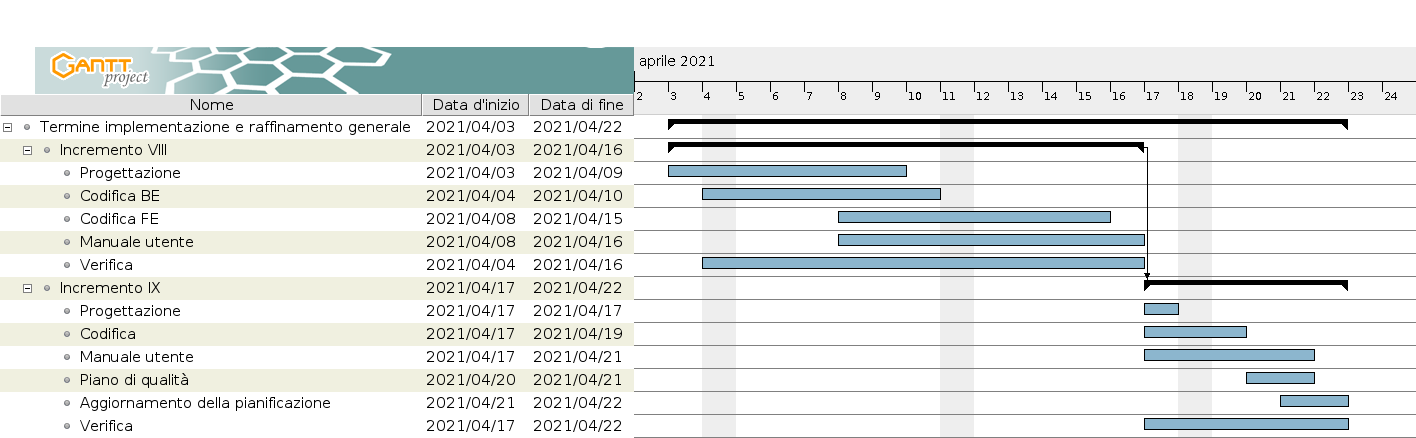
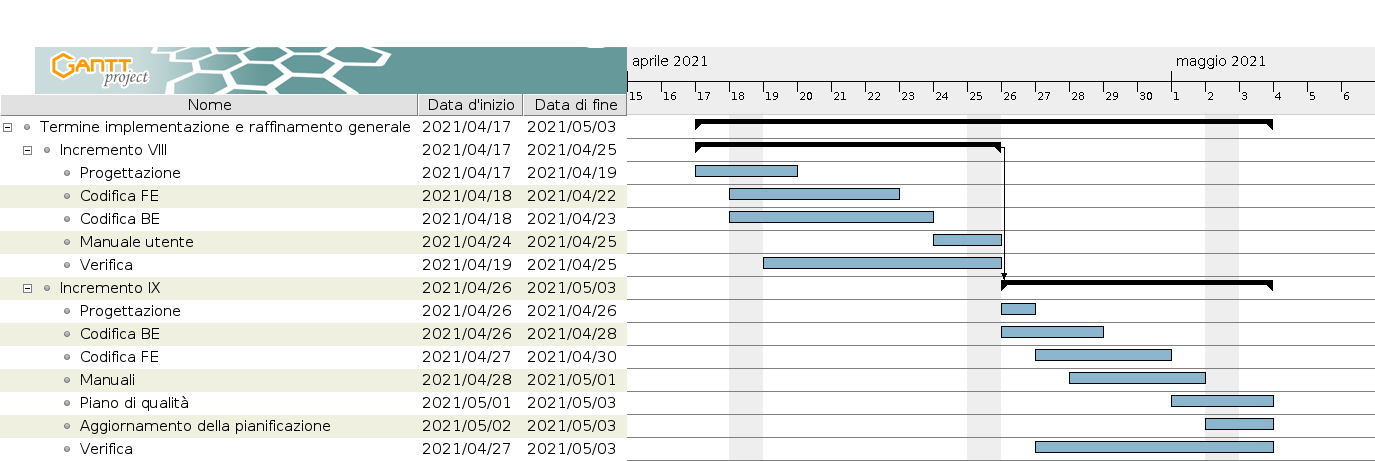
Primo aggiornamento della pianificazione

diff --git a/Esterni/PianoDiProgetto/res/sections/pianificazione/pianificazione.tex b/Esterni/PianoDiProgetto/res/sections/pianificazione/pianificazione.tex
@@ -356,7 +356,7 @@ Durante questa fase saranno presenti i seguenti ruoli:
 \subsection{Progettazione completa e implementazione} \label{_pianificazioneProgettazioneCompletaImplementazione}
 \begin{itemize}
     \item []\textbf{Inizio:} 2021-03-02
-    \item []\textbf{Fine:} 2021-04-02
+    \item []\textbf{Fine:} 2021-04-16
     \item []\textbf{Descrizione:} effettuare una implementazione del prodotto che soddisfi tutte le principali funzionalità richieste.
 \end{itemize}
 
@@ -412,7 +412,7 @@ Durante questa fase saranno presenti i seguenti ruoli:
 \paragraph[Incremento V]{Incremento V}
 \begin{itemize}
     \item [] \textbf{Inizio:} 2021-03-11
-    \item [] \textbf{Fine:} 2021-03-15
+    \item [] \textbf{Fine:} 2021-03-20
     \item [] \textbf{Descrizione:} implementazione PLP e PDP.
     \item [] \textbf{Attività}
           \begin{itemize}
@@ -428,7 +428,17 @@ Durante questa fase saranno presenti i seguenti ruoli:
                         \item implementazione PLP;
                         \item implementazione PDP.
                     \end{itemize}
-              \item \textbf{Manuale utente:} inizio stesura;
+              \item \textbf{Manuale manutentore:}
+                    \begin{itemize}
+                        \item definizione della struttura del manuale;
+                        \item aggiunta delle architetture valutate.
+                    \end{itemize}
+              \item \textbf{Manuale utente:}
+                    \begin{itemize}
+                        \item definizione della struttura del manuale;
+                        \item redazione delle parti riferite alle pagine già implementate.
+                    \end{itemize}
+              \item \textbf{Pianificazione:} eventuale aggiornamento valutando l'avanzamento del progetto.
               \item \textbf{Verifica:} controllo della qualità dei prodotti sviluppati in questo periodo.
           \end{itemize}
 \end{itemize}
@@ -442,8 +452,8 @@ Durante questa fase saranno presenti i seguenti ruoli:
 
 \paragraph[Incremento VI]{Incremento VI}
 \begin{itemize}
-    \item [] \textbf{Inizio:} 2021-03-16
-    \item [] \textbf{Fine:} 2021-03-21
+    \item [] \textbf{Inizio:} 2021-03-21
+    \item [] \textbf{Fine:} 2021-03-31
     \item [] \textbf{Descrizione:} implementazione gestione ordini lato cliente ed inizio implementazioni API lato venditore.
     \item [] \textbf{Attività}
           \begin{itemize}
@@ -454,7 +464,7 @@ Durante questa fase saranno presenti i seguenti ruoli:
                     \end{itemize}
               \item \textbf{Codifica BE:}
                     \begin{itemize}
-                        \item implementazione API per gestire il profilo utente;
+                        \item implementazione API per visualizzare clienti lato venditore;
                         \item implementazione API gestione prodotti lato venditore;
                     \end{itemize}
               \item \textbf{Codifica FE:}
@@ -462,6 +472,7 @@ Durante questa fase saranno presenti i seguenti ruoli:
                         \item implementazione pagina lista ordini;
                         \item implementazione pagina dettaglio ordine;
                     \end{itemize}
+              \item \textbf{Manuale manutentore:} aggiornamento;
               \item \textbf{Verifica:} controllo della qualità dei prodotti sviluppati in questo periodo.
           \end{itemize}
 \end{itemize}
@@ -475,15 +486,16 @@ Durante questa fase saranno presenti i seguenti ruoli:
 
 \paragraph[Incremento VII]{Incremento VII}
 \begin{itemize}
-    \item [] \textbf{Inizio:} 2021-03-22
-    \item [] \textbf{Fine:} 2021-04-02
+    \item [] \textbf{Inizio:} 2021-04-01
+    \item [] \textbf{Fine:} 2021-04-16
     \item [] \textbf{Descrizione:} fine implementazione FE lato cliente ed implementazione gestione prodotti lato venditore.
     \item [] \textbf{Attività}
           \begin{itemize}
               \item \textbf{Progettazione:} progettazione pagine gestione prodotti lato venditore;
+              \item \textbf{Presentazione PB:} preparazione della presentazione per la product baseline;
               \item \textbf{Codifica BE:}
                     \begin{itemize}
-                        \item implementazione API per gestire categorie e clienti lato venditore;
+                        \item implementazione API per gestire categorie;
                     \end{itemize}
               \item \textbf{Codifica FE:}
                     \begin{itemize}
@@ -491,7 +503,7 @@ Durante questa fase saranno presenti i seguenti ruoli:
                         \item implementazione gestione prodotti lato venditore;
                     \end{itemize}
               \item \textbf{Manuale utente:} aggiornamento;
-              \item \textbf{Preparazione presentazione:} preparazione della presentazione per la revisione di qualifica;
+              \item \textbf{Presentazione RQ:} preparazione della presentazione per la revisione di qualifica;
               \item \textbf{Stesura lettera di presentazione;}
               \item \textbf{Aggiornamento della pianificazione;}
               \item \textbf{Verifica:} controllo della qualità dei prodotti sviluppati in questo periodo.
@@ -518,8 +530,8 @@ Durante questa fase saranno presenti i seguenti ruoli:
 
 \subsection{Termine implementazione e raffinamento generale} \label{_pianificazioneTermineImplementazione}
 \begin{itemize}
-    \item [] \textbf{Inizio:} 2021-04-03
-    \item [] \textbf{Fine:} 2021-04-22
+    \item [] \textbf{Inizio:} 2021-04-17
+    \item [] \textbf{Fine:} 2021-05-03
     \item [] \textbf{Descrizione:} completare l'implementazione del prodotto con le funzionalità mancanti raffinando ciò che è stato svolto precedentemente.
 \end{itemize}
 
@@ -537,12 +549,13 @@ Durante questa fase saranno presenti i seguenti ruoli:
 
 \paragraph[Incremento VIII]{Incremento VIII}
 \begin{itemize}
-    \item [] \textbf{Inizio:} 2021-04-03
-    \item [] \textbf{Fine:} 2021-04-16
+    \item [] \textbf{Inizio:} 2021-04-17
+    \item [] \textbf{Fine:} 2021-04-25
     \item [] \textbf{Descrizione:} implementazione gestione ordini lato venditore.
     \item [] \textbf{Attività}
           \begin{itemize}
-              \item \textbf{Progettazione:} progettazione pagine gestione ordini lato venditore
+              \item \textbf{Progettazione:} progettazione pagine gestione ordini lato venditore;
+              \item \textbf{Codifica:} refactoring di parte del codice secondo quanto appreso in sede di PB;
               \item \textbf{Codifica BE:}
                     \begin{itemize}
                         \item implementazione API per gestire gli ordini lato venditore;
@@ -551,7 +564,7 @@ Durante questa fase saranno presenti i seguenti ruoli:
                     \begin{itemize}
                         \item implementazione gestione ordini lato venditore;
                     \end{itemize}
-              \item \textbf{Manuale utente:} aggiornamento;
+              \item \textbf{Manuali:} miglioramento secondo le eventuali indicazioni ricevute;
               \item \textbf{Verifica:} controllo della qualità dei prodotti sviluppati in questo periodo.
           \end{itemize}
 \end{itemize}
@@ -565,16 +578,23 @@ Durante questa fase saranno presenti i seguenti ruoli:
 
 \paragraph[Incremento IX]{Incremento IX}
 \begin{itemize}
-    \item [] \textbf{Inizio:} 2021-04-17
-    \item [] \textbf{Fine:} 2021-04-22
+    \item [] \textbf{Inizio:} 2021-04-26
+    \item [] \textbf{Fine:} 2021-04-03
     \item [] \textbf{Descrizione:} fine implementazione funzionalità mancanti lato venditore.
     \item [] \textbf{Attività}
           \begin{itemize}
               \item \textbf{Aggiornamento della pianificazione;}
               \item \textbf{Piano di qualità:} revisione ed eventuale aggiornamento del piano di qualifica;
-              \item \textbf{Progettazione;}
-              \item \textbf{Codifica:} fine codifica e raffinamento del prodotto;
-              \item \textbf{Manuale utente:} stesura finale;
+              \item \textbf{Progettazione} progettazione pagine gestione tasse lato venditore;
+              \item \textbf{Codifica BE:}
+                    \begin{itemize}
+                        \item implementazione API per gestire le tasse lato venditore;
+                    \end{itemize}
+              \item \textbf{Codifica FE:}
+                    \begin{itemize}
+                        \item implementazione gestione tasse lato venditore;
+                    \end{itemize}
+              \item \textbf{Manuali:} completamento stesura parti mancanti;
               \item \textbf{Verifica:} controllo della qualità dei prodotti sviluppati in questo periodo.
           \end{itemize}
 \end{itemize}
@@ -597,8 +617,8 @@ Durante questa fase saranno presenti i seguenti ruoli:
 
 \subsection{Validazione e collaudo} \label{_pianificazioneValidazioneCollaudo}
 \begin{itemize}
-    \item [] \textbf{Inizio:} 2021-04-23
-    \item [] \textbf{Fine:} 2021-05-03
+    \item [] \textbf{Inizio:} 2021-05-04
+    \item [] \textbf{Fine:} 2021-05-11
     \item [] \textbf{Descrizione:} verificare e collaudare il prodotto.
 \end{itemize}
 
@@ -616,13 +636,13 @@ Durante questa fase saranno presenti i seguenti ruoli:
 
 \paragraph[Unico periodo]{Unico periodo}
 \begin{itemize}
-    \item [] \textbf{Inizio:} 2021-04-23
-    \item [] \textbf{Fine:} 2021-05-03
+    \item [] \textbf{Inizio:} 2021-05-04
+    \item [] \textbf{Fine:} 2021-05-11
     \item [] \textbf{Attività}
           \begin{itemize}
               \item \textbf{Aggiornamento della pianificazione;}
-              \item \textbf{Codifica:} rilascio ultima versione;
-              \item \textbf{Manuale utente:} revisione ed eventuale aggiornamento;
+              \item \textbf{Codifica:} eventuali fix e rilascio ultima versione;
+              \item \textbf{Manuali:} revisione ed eventuale aggiornamento;
               \item \textbf{Preparazione presentazione:} preparazione della presentazione per la revisione di accettazione;
               \item \textbf{Stesura lettera di presentazione;}
               \item \textbf{Verifica:} controllo della qualità dei prodotti sviluppati in questo periodo.
